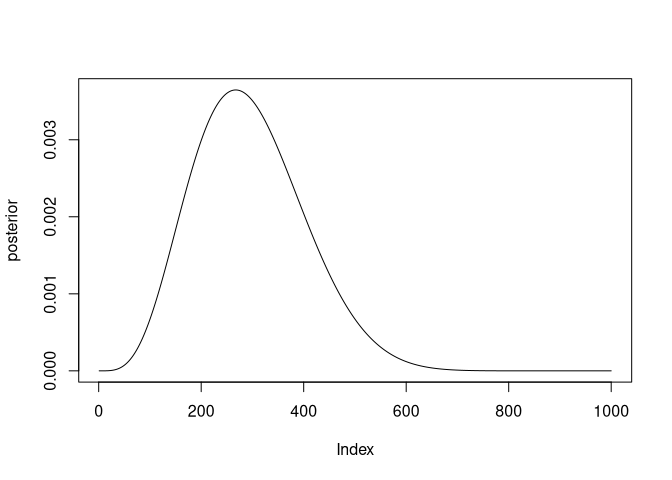
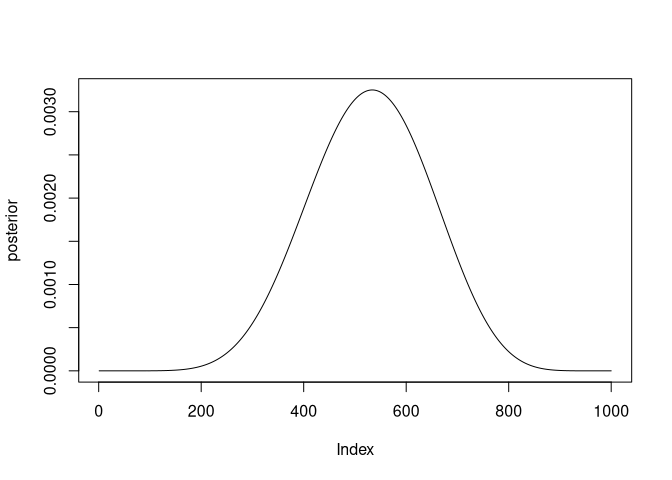
render

diff --git a/homework/Week-1.md b/homework/Week-1.md
@@ -1,7 +1,7 @@
 Week 1
 ================
 Alec L. Robitaille
-2021-08-18
+2021-08-24
 
 ## Variables
 
@@ -24,7 +24,7 @@ p is distributed uniformally at 1
 
 ## Question 1
 
-Suppose the globe tossing data (Chapter 2) had turned out to be 4 water
+Suppose the globe tossing data (Chapter 2) had turned out to be 8 water
 in 15 tosses. Construct the posterior distribution, using grid
 approximation. Use the same flat prior as in the book.
 
@@ -40,7 +40,7 @@ prior_prob <- rep(1, gridsize)
 
 # Data probability
 #  given 4/15, using binomial distribution
-data_prob <- dbinom(4, 15, prob = prior_grid)
+data_prob <- dbinom(8, 15, prob = prior_grid)
 
 # Calculate the posterior numerator by multiplying prior and data probability
 posterior_num <- prior_prob * data_prob
@@ -54,6 +54,21 @@ plot(posterior, type = 'l')
 ```
 
 ![](Week-1_files/figure-gfm/unnamed-chunk-1-1.png)<!-- -->
+
+``` r
+# Sample from posterior
+samples <- sample(prior_grid, size = gridsize, prob = posterior, replace = TRUE)
+mean(samples)
+```
+
+    ## [1] 0.5303323
+
+``` r
+PI(samples, .99)
+```
+
+    ##        1%      100% 
+    ## 0.2582232 0.8218368
 
 ## Question 2
 
@@ -89,6 +104,21 @@ plot(posterior, type = 'l')
 
 ![](Week-1_files/figure-gfm/unnamed-chunk-2-1.png)<!-- -->
 
+``` r
+# Sample from posterior
+samples <- sample(prior_grid, size = gridsize, prob = posterior, replace = TRUE)
+mean(samples)
+```
+
+    ## [1] 0.5487207
+
+``` r
+PI(samples, .99)
+```
+
+    ##        1%      100% 
+    ## 0.5005005 0.6957057
+
 Narrower curve, higher max, all zeroes before 0.5
 
 ## Question 3
@@ -100,33 +130,6 @@ misunderstand about the shape of the posterior distribution?
 
 ``` r
 library(rethinking)
-```
-
-    ## Loading required package: rstan
-
-    ## Loading required package: StanHeaders
-
-    ## Loading required package: ggplot2
-
-    ## rstan (Version 2.21.2, GitRev: 2e1f913d3ca3)
-
-    ## For execution on a local, multicore CPU with excess RAM we recommend calling
-    ## options(mc.cores = parallel::detectCores()).
-    ## To avoid recompilation of unchanged Stan programs, we recommend calling
-    ## rstan_options(auto_write = TRUE)
-
-    ## Loading required package: parallel
-
-    ## rethinking (Version 2.13)
-
-    ## 
-    ## Attaching package: 'rethinking'
-
-    ## The following object is masked from 'package:stats':
-    ## 
-    ##     rstudent
-
-``` r
 library(ggplot2)
 library(data.table)
 
